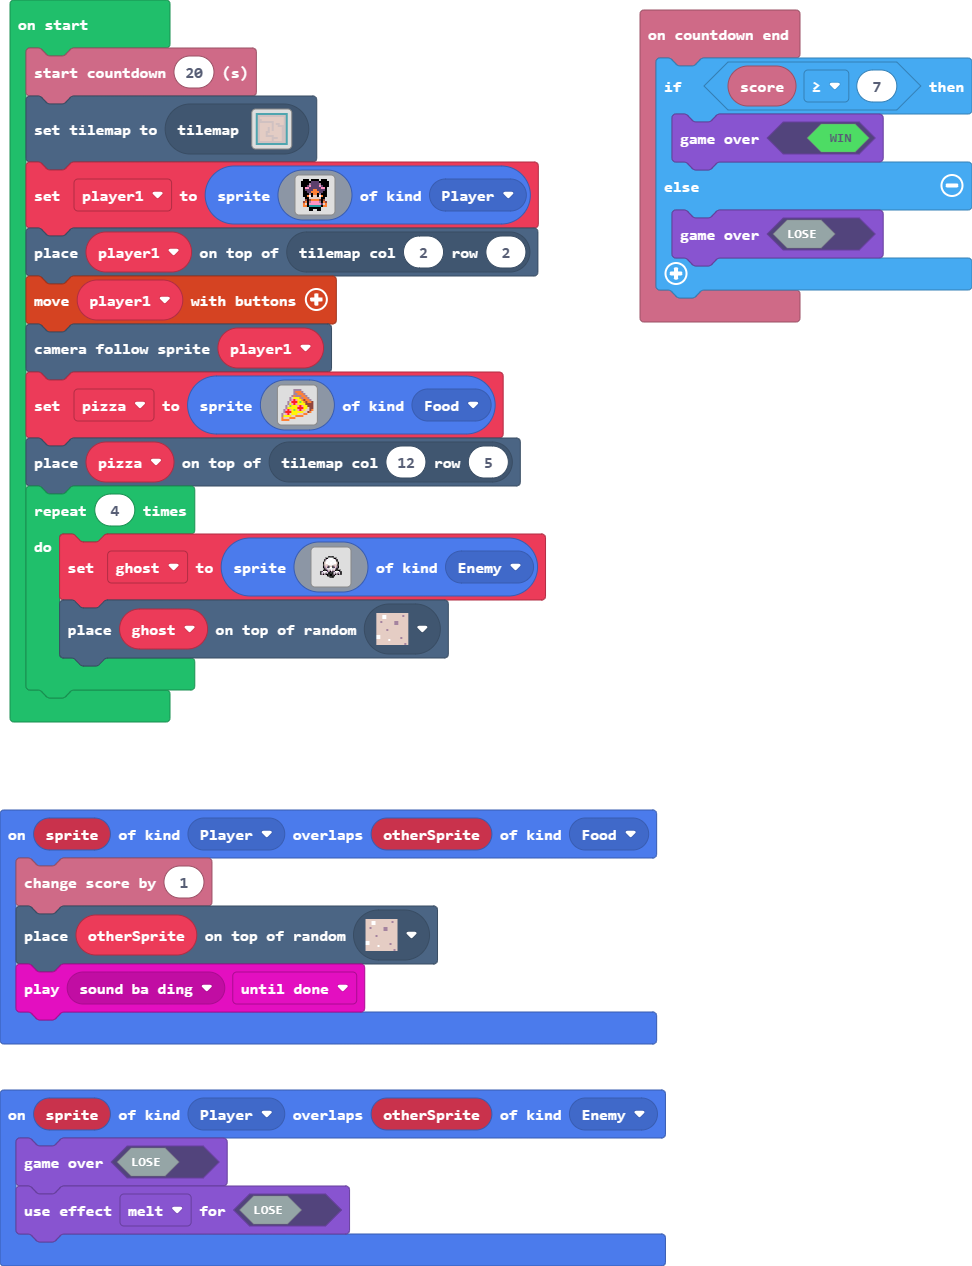
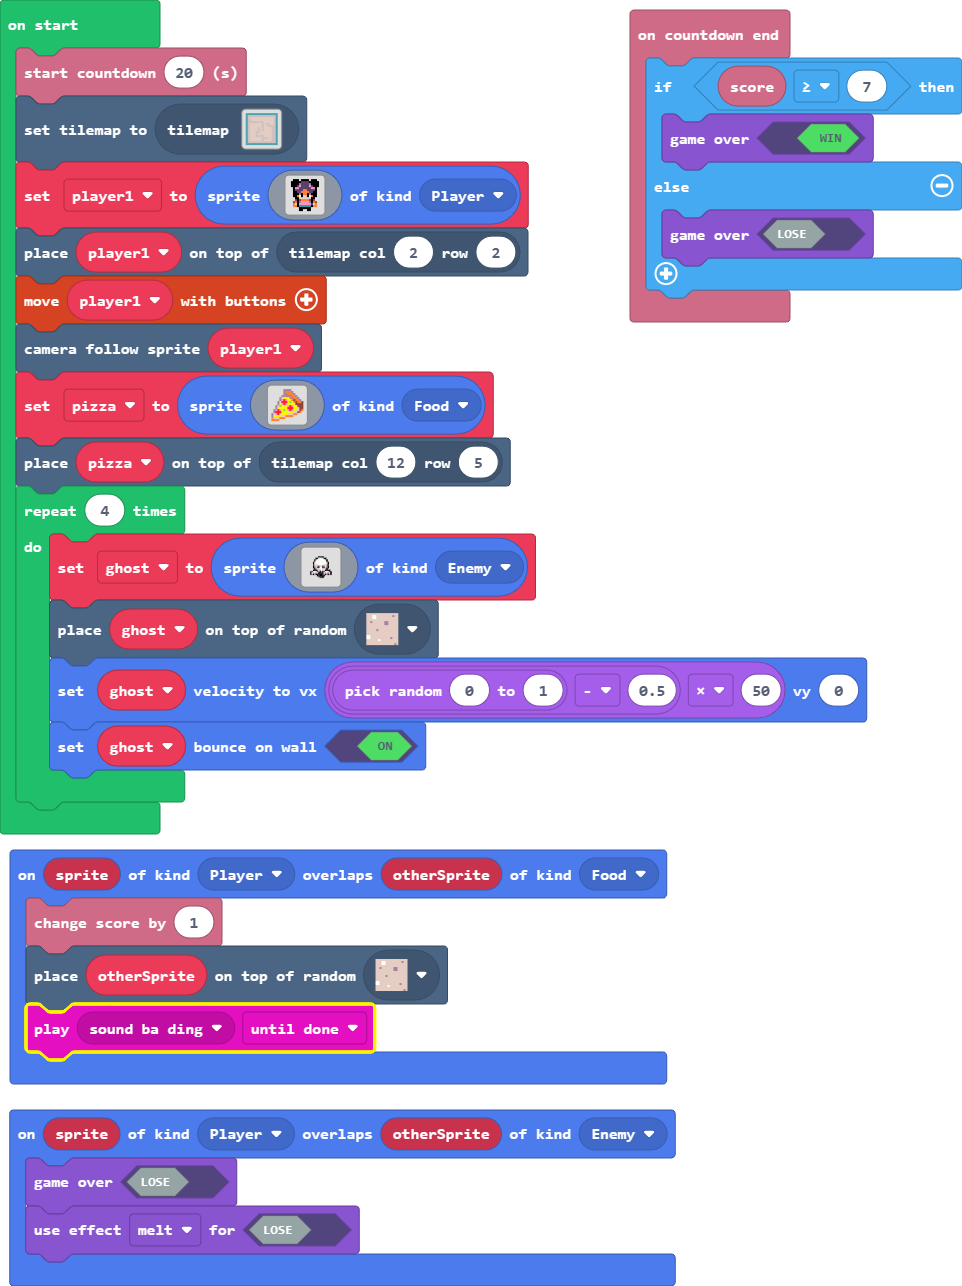
The ghost is now able to move

Changed region(s): [[0.0, 0.0, 0.9044, 1.0], [0.6549, 0.0, 1.0, 0.2773], [0.6861, 0.955, 0.7173, 1.0]]

diff --git a/main.ts b/main.ts
@@ -85,4 +85,6 @@ for (let index = 0; index < 4; index++) {
         ........................
         `, SpriteKind.Enemy)
     tiles.placeOnRandomTile(ghost, sprites.castle.tilePath5)
+    ghost.setVelocity((randint(0, 1) - 0.5) * 50, 0)
+    ghost.setBounceOnWall(true)
 }
